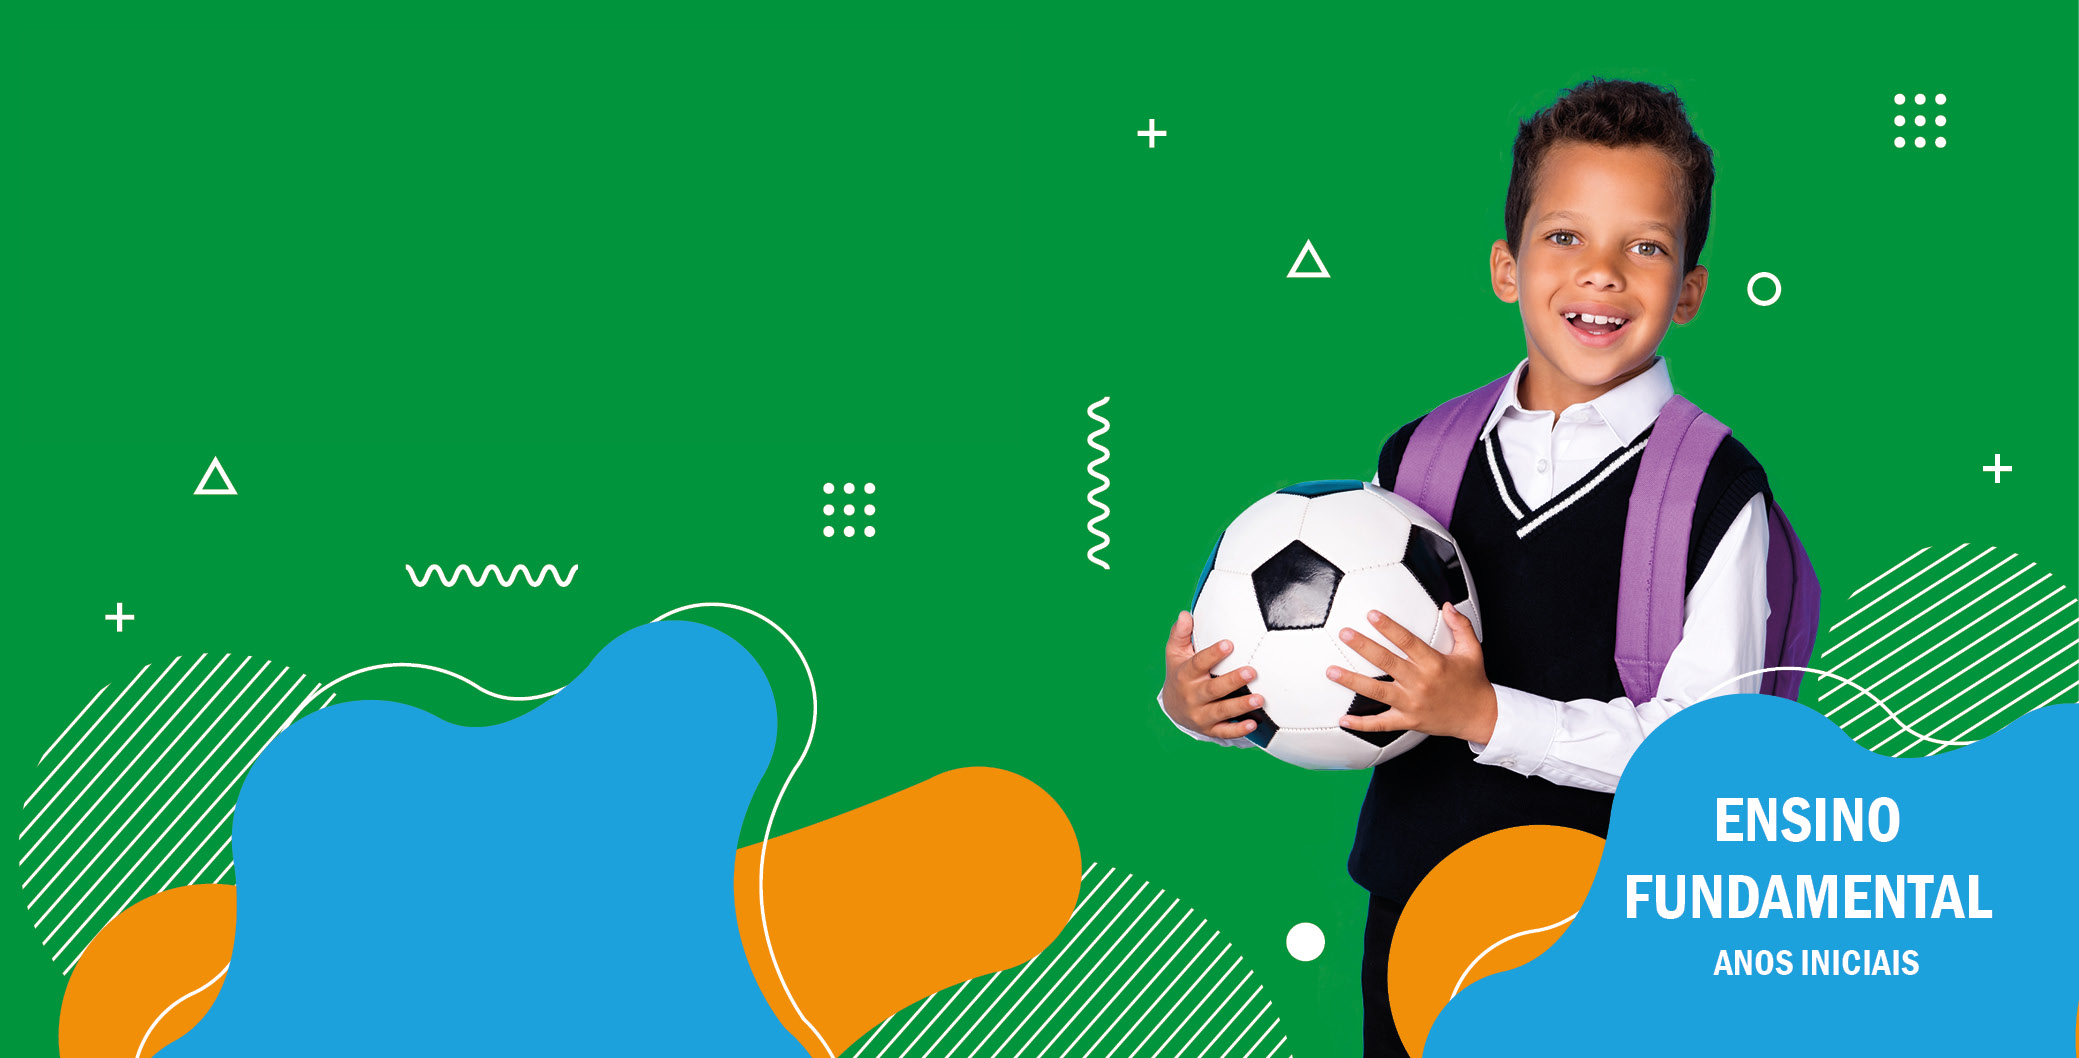
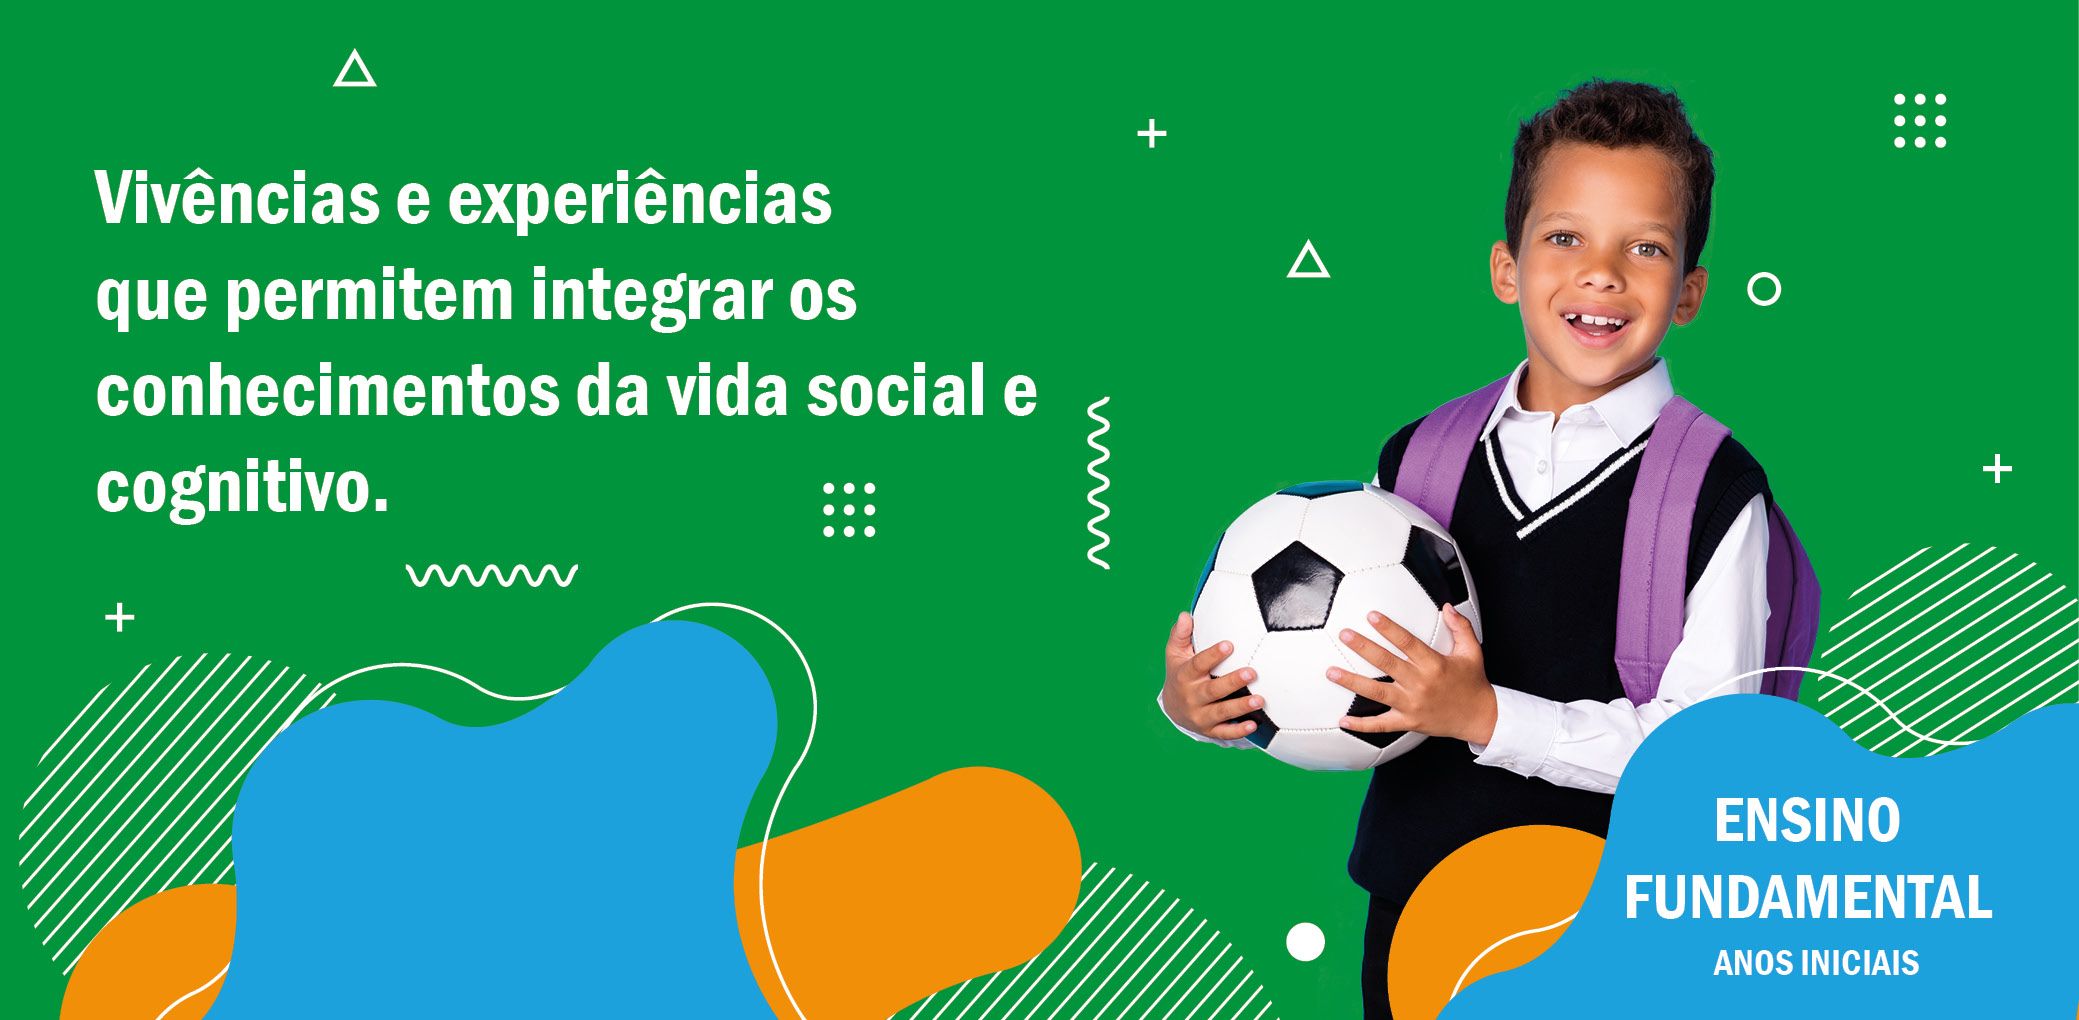
first commit

diff --git a/ens-fundamental.html b/ens-fundamental.html
@@ -48,7 +48,7 @@
     <section class="home_anos_iniciais" id="home_anos_iniciais">
 
         <div class="content">
-            <h3>Vivências e experiências que permitem integrar os conhecimentos da vida social e cognitivo.</h3>  
+            <h3></h3>  
         </div>
 
     </section>

diff --git a/edu-infantil.html b/edu-infantil.html
@@ -44,7 +44,7 @@
     <section class="home_edu_inf" id="home_edu_inf">
 
         <div class="content">
-            <h3>Brincando e Interagindo eu descubro o mundo ao meu redor.</h3>
+            <h3></h3>
         </div>
 
     </section>
